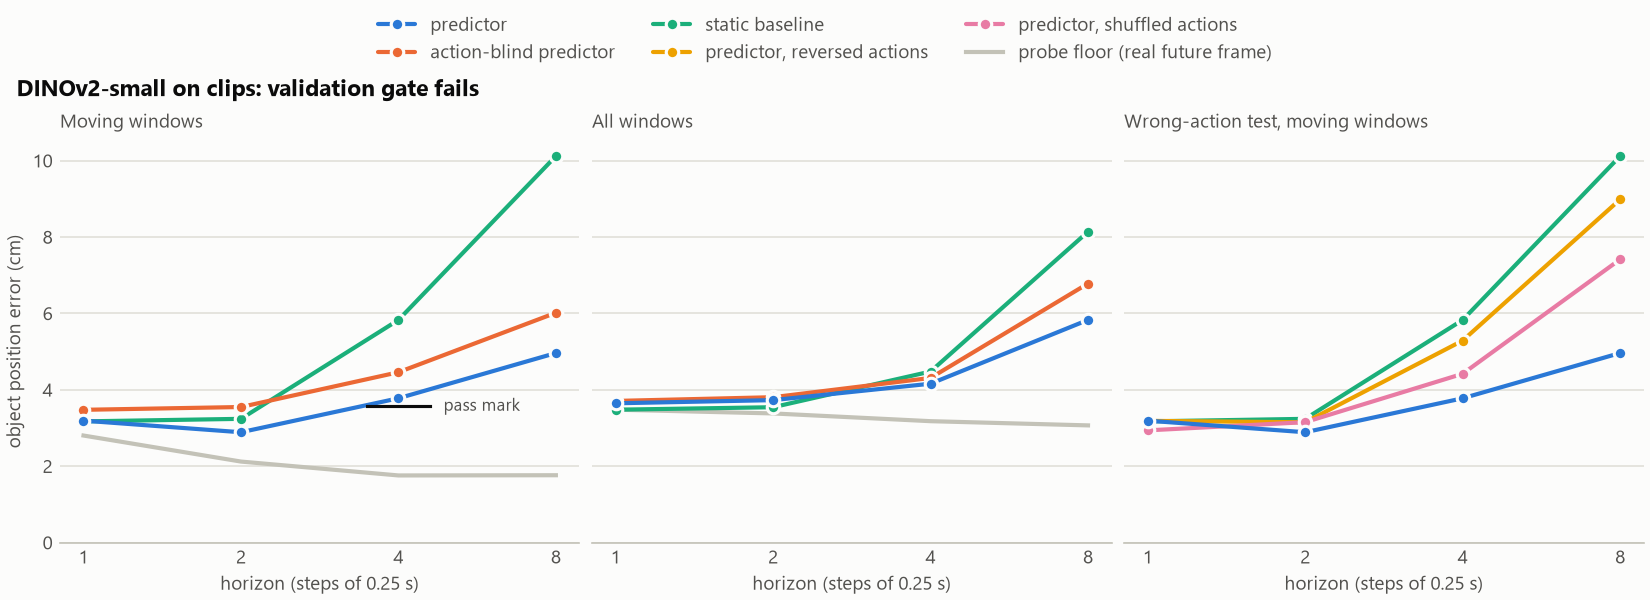
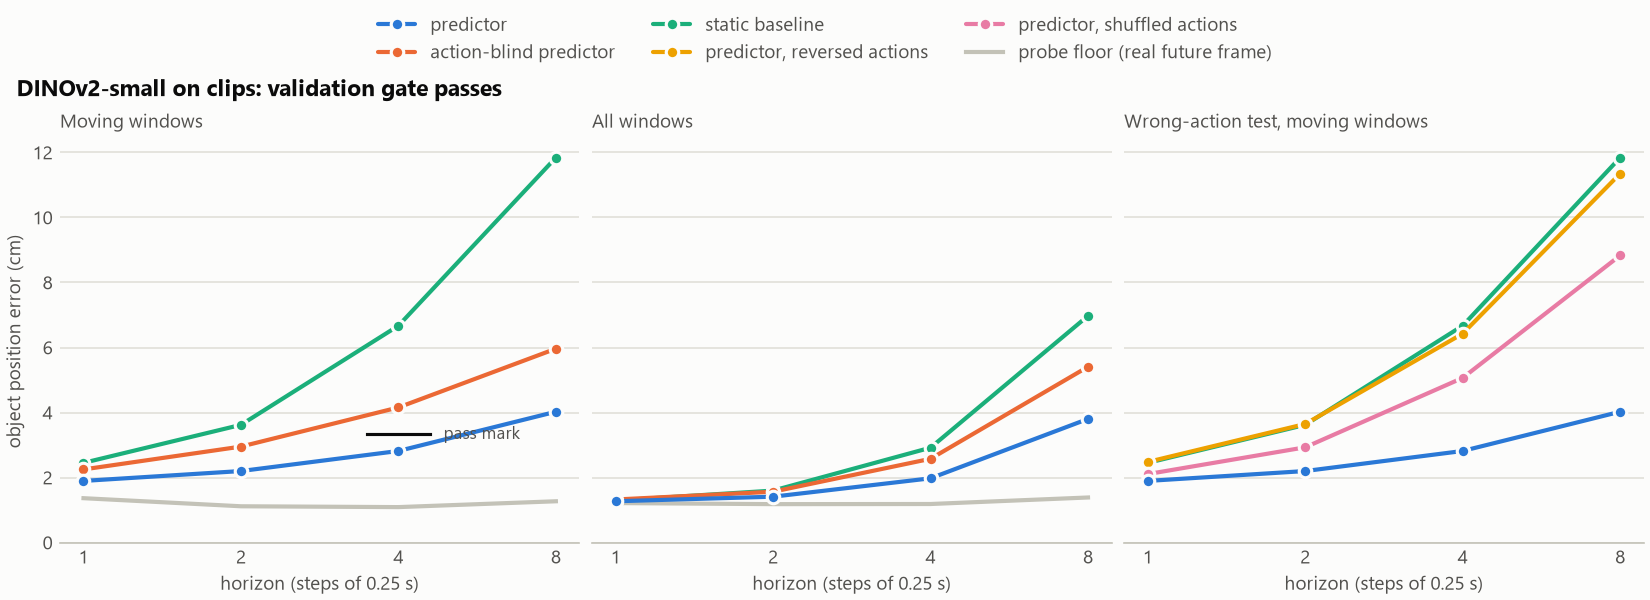
Fill the README with the 115-clip results and refresh its figures

Changed region(s): [[0.0, 0.24, 1.0, 0.87], [0.0309, 0.36, 0.34, 0.87], [0.2473, 0.12, 0.3091, 0.18]]

diff --git a/scripts/readme_assets.py b/scripts/readme_assets.py
@@ -14,15 +14,16 @@ LIMIT = 5e6  # bytes
 
 # README asset -> file in the run folder
 ASSETS = {
-    "gif-strip.gif": "clips/gif-strip/VID_20261016_141304-05.gif",
+    "gif-strip.gif": "clips/gif-strip/VID_20261016_141304-11.gif",
     "pusht-error-vs-horizon.png": "pusht/error-vs-horizon.png",
     "pusht-seeds.png": "pusht/dinov2/error-vs-horizon-seeds.png",
     "ranking.png": "pusht/dinov2/ranking/ranking.png",
     "pusht-panda.gif": "pusht/panda/pusht-002.gif",
     "clips-error-vs-horizon.png": "clips/dinov2/error-vs-horizon.png",
     "near-miss.png": "clips/dinov2/near-miss.png",
-    "panda-push.gif": "clips/panda/VID_20261016_141455-07.gif",
-    "panda-near-miss.gif": "clips/panda/VID_20261016_141631-03.gif",
+    "probe-scaling.png": "clips/dinov2/probe-scaling.png",
+    "panda-push.gif": "clips/panda/VID_20261016_163841-02.gif",
+    "panda-near-miss.gif": "clips/panda/VID_20261016_165020-05.gif",
 }
 
 parser = argparse.ArgumentParser(description=__doc__)

diff --git a/README.md b/README.md
@@ -4,10 +4,9 @@ I trained a small world model that predicts where a pushed object will go, check
 
 [![Open In Colab](https://colab.research.google.com/assets/colab-badge.svg)](https://colab.research.google.com/github/well-iam/humanoid-intern-challenge/blob/main/notebooks/pushing_world_model.ipynb)
 
-<!-- UPDATE: gif-strip.gif is redrawn by scripts/gif_strip.py after the new run. Its default clip is the first held-out push with its own contact shift; the held-out split changes with more takes, so the clip name in this caption may change too. -->
 ![My clip, the model's prediction, the Panda replay](assets/gif-strip.gif)
 
-Left: one of my held-out clips (palm in green). Middle: what the predictor expected 1 s earlier, from the frames it had then and my real palm moves. A prediction is a feature vector, not an image, so I show the training frame whose features are closest to it. Right: the Panda replaying my palm path in MuJoCo.
+Left: one of my held-out clips (palm in green). Middle: what the predictor expected 1 s earlier, from the frames it had then and my real palm moves. A prediction is a feature vector, not an image, so I show the training frame whose features are closest to it. Right: the Panda replaying my palm path in MuJoCo. The clip is not the best one: of the 3 held-out pushes where I know where the palm was at contact, it is the one with the median replay error (4.5 cm; the box also ends 41° off).
 
 ## The idea
 
@@ -65,70 +64,72 @@ Why: the top pick is where the model is most wrong in the hopeful direction. For
 
 ## My data
 
-<!-- UPDATE: every number and figure in this section comes from the first 30 clips (ticket 14 and 15). The new run with about 120 clips replaces them; the 30-clip run stays in pwm-data/clips/dinov2-30clips/. -->
+I recorded 9 takes: my hand pushing a white box (17.8 × 5.8 × 3 cm) on a carpet, filmed from above by a phone 71 cm up. Each clip starts at a clap, so I never touched the phone during a take. The claps cut the takes into 119 clips. I dropped 4 of them, where my hand came back to reset the box. That leaves 115 clips: 80 pushes and 35 near-misses, where my hand passes the box without touching it.
 
-I recorded <!-- UPDATE: clip count, takes -->30 clips in 3 takes<!-- /UPDATE -->: my hand pushing a white box (17.8 × 5.8 × 3 cm) on a carpet, filmed from above by a phone 71 cm up. <!-- UPDATE: push / near-miss / held-out counts -->22 are pushes and 8 are near-misses, where my hand passes the box without touching it. 8 clips (6 pushes, 2 near-misses) are held out.<!-- /UPDATE --> Each clip starts at a clap, so I never touched the phone during a take.
+18 clips are held out: 10 pushes and 8 near-misses. 8 of them are the held-out clips of my first 3 takes, fixed before I trained anything. The other 10 are drawn with a fixed seed from the 6 later takes. The other 97 clips train the models.
 
 From video to data:
 - A printed ArUco marker gives the table plane. Each frame is straightened to a 50 × 50 cm square, at 8 frames per second.
 - MediaPipe finds the hand; the pusher position is the centre of the palm.
-- The box is the bright rectangle of the right size. Its measured top face is within <!-- UPDATE: tracking report -->0.33 cm<!-- /UPDATE --> of the ruler size, so the pixel-to-cm error is a few mm.
+- A clip ends when the hand has been out of view for 0.75 s. Otherwise a clip could include my hand coming back to reset the box.
+- The box is the bright rectangle of the right size.
+- Pixel-to-cm check: the A4 sheet under the marker measures within 0.28 cm of its true size wherever it is seen, and the box's top face within 0.77 cm (5.80 × 17.94 cm on average, ruler 5.8 × 17.8).
 
-Same chain and training recipe as Push-T, with a step of 0.25 s. Nothing was changed after seeing held-out numbers.
+Same chain and training recipe as Push-T, with a step of 0.25 s. Nothing was tuned on held-out numbers.
 
-<!-- UPDATE: assets/clips-error-vs-horizon.png from pwm-data/clips/dinov2/error-vs-horizon.png -->
+**A first run on 30 clips failed both gates. More data fixed that.** I first trained on my first 3 takes only (22 training clips). Then I recorded 6 more takes and reran the same chain. The 8 held-out clips of the first run are still held out, so I can compare on the same clips.
+
 ![Error vs horizon on my clips](assets/clips-error-vs-horizon.png)
 
-Error on held-out moving windows, cm:
+Error at 4 steps (1 s) ahead on held-out moving windows, cm:
 
-<!-- UPDATE: fill the ~120 clips column from pwm-data/clips/dinov2/report.md; the 30 clips column comes from pwm-data/clips/dinov2-30clips/report.md -->
-| | 30 clips, 1 s | 30 clips, 2 s | ~120 clips, 1 s | ~120 clips, 2 s |
-|---|---:|---:|---:|---:|
-| probe on real frames (Gate 1: under 2 cm) | 3.49 | | TBD | |
-| predictor | **3.78** | **4.96** | TBD | TBD |
-| action-blind predictor | 4.46 | 6.02 | TBD | TBD |
-| static baseline | 5.83 | 10.12 | TBD | TBD |
-| reversed pusher moves | 5.29 | 8.98 | TBD | TBD |
-| shuffled pusher moves | 4.42 | 7.41 | TBD | TBD |
-| validation gate (pass mark) | fail (3.57) | | TBD | |
+| | first run: 22 training clips, 8 held-out | 97 training clips, same 8 held-out | 97 training clips, all 18 held-out |
+|---|---:|---:|---:|
+| probe on real frames (Gate 1: under 2 cm) | 3.49 (fail) | 1.72 (pass) | 1.24 (pass) |
+| predictor | **3.78** | **3.15** | **2.82** |
+| action-blind predictor | 4.46 | 4.61 | 4.16 |
+| static baseline | 5.83 | 6.34 | 6.67 |
+| reversed pusher moves | 5.29 | 6.45 | 6.43 |
+| shuffled pusher moves | 4.42 | 5.10 | 5.06 |
+| validation gate (pass mark) | fail (3.57) | pass (3.69) | pass (3.33) |
 
-<!-- UPDATE: all numbers in the next three bullets -->
-- The predictor halves the static baseline's error at 2 s (4.96 vs 10.12 cm), and beats it at 1 s in all 6 held-out push clips. Wrong pusher moves make it worse.
-- It is only 15% below the action-blind predictor, and the gate asks for 20%. Resampling the 6 held-out push clips puts the ratio at 0.85 (95% interval 0.78 to 0.92).
-- **Gate 1 fails:** the probe is off by 3.49 cm on real frames. This error sits under every number above.
+- **Both gates now pass.** On all 18 held-out clips the predictor is 32% below the action-blind predictor (20% needed) and 58% below the static baseline. It beats the action-blind predictor in all 10 held-out push clips. Resampling those 10 clips puts the ratio at 0.68 (95% interval 0.62 to 0.74).
+- On the first run it was only 15% below the action-blind predictor (ratio 0.85, 95% interval 0.78 to 0.92, over 6 clips).
+- Wrong pusher moves hurt more than before. Reversed moves now put the error at the static baseline's level (6.43 vs 6.67 cm). So the predictor leans on the actions more.
+- At 8 steps (2 s) ahead, on all 18: predictor 4.02 cm, action-blind 5.96, static 11.84.
+- The static baseline got worse with more data on the same 8 clips (5.83 to 6.34 cm). The static baseline is the probe on the current frame. My guess: the first run's weaker probe pulled every position toward the middle, which hid part of the motion.
 
-The probe got better with every clip I added. Cross-validated on the training clips: 6.27 cm with 6 clips, 4.86 with 9, 3.71 with 12, 3.38 with 15, 3.17 with 17. Feeding DINOv2 448 px frames instead of 224 px did not help (3.15 vs 3.04 cm). So I recorded more clips.
+**Why more clips helped: the probe.** With 22 training clips, the probe read the box's position 3.49 cm off on real frames, and this error sat under every number. Feeding DINOv2 448 px frames instead of 224 px did not help (3.15 vs 3.04 cm). More clips did:
 
-<!-- UPDATE: add assets/probe-vs-clips.png (probe error vs number of training clips, 30-clip and ~120-clip runs) once the new run draws it, and add it to ASSETS in scripts/readme_assets.py, then uncomment the line below (left commented so GitHub shows no broken image)
-![Probe error vs number of training clips](assets/probe-vs-clips.png)
--->
+![Probe error vs number of training clips](assets/probe-scaling.png)
 
+This is 5-fold cross-validation over the 97 training clips (held-out clips never used). The probe crosses the 2 cm mark between 24 and 48 clips. One caveat: the folds mix clips of the same take, so the curve may flatter a bit. The held-out numbers (1.72 and 1.24 cm) agree with it.
 
 **Near-miss test.** When my hand passes the box without touching it, the box should not move.
 
-<!-- UPDATE: assets/near-miss.png and the numbers below -->
 ![Near-miss test](assets/near-miss.png)
 
-At 1 s, the predictor moves the box 2.37 cm on near-miss windows. The probe's own jitter on the real frames is 1.60 cm, and the action-blind predictor moves it 1.87 cm. So the model learned "the box moves when the hand moves", not "the box moves when the hand touches it". This rests on 2 held-out near-miss clips.
+At 1 s, on the 8 held-out near-miss clips, the predictor moves the box 1.44 cm. The probe's own jitter on the real frames is 0.67 cm. That is still a fail. But it is better than the first run, where it moved the box 2.37 cm on 2 near-miss clips. And it now moves the box less than the action-blind predictor (1.44 vs 2.17 cm at 1 s, 2.86 vs 4.48 at 2 s), which the first run never did. So the actions now tell it something about "the hand passed by". On the first run's 2 near-miss clips alone, it improved at 1 s (2.37 to 1.61 cm) but not at 2 s (4.17 to 4.23 cm).
 
 ### My palm paths drive the Panda
 
 The palm centre is about 12 cm behind the part of the hand that touches the box. So for each push I measure, at the moment of contact, the vector from the palm to the nearest edge of the box, and move the whole path by it. The Panda's closed gripper follows the moved path 1.5 cm above the table, with mink inverse kinematics in MuJoCo. The simulated box starts where the real one started.
 
-<!-- UPDATE: panda-push.gif is clip VID_20261016_141455-07 (the own-shift push with the median error); pick again from the new replay.json -->
 ![Panda replaying one of my pushes](assets/panda-push.gif)
 
-Final box position, simulation vs my clip:
+This held-out push is one where MediaPipe found my hand late, so the path is moved by the median shift. It is the one with the median replay error of the 7 such held-out pushes: 5.3 cm.
 
-<!-- UPDATE: all rows from pwm-data/clips/panda/replay.json -->
+Final box position, simulation vs my clip, all 115 clips:
+
 | clips | how the path is moved | error, median (worst) | real box moved, median |
 |---|---|---:|---:|
-| 12 pushes | its own contact shift | 3.6 cm (5.9) | 14.8 cm |
-| 10 pushes where the hand was found late | the median shift, turned to the hand's direction | 5.5 cm (22.7) | 15.7 cm |
-| 8 near-misses | the median shift | box moved 0.0 cm in all 8 | 0.0 cm |
+| 48 pushes | its own contact shift | 3.8 cm (11.1) | 14.4 cm |
+| 32 pushes where the hand was found late | the median shift, turned to the hand's direction | 4.7 cm (19.1) | 16.4 cm |
+| 35 near-misses | the median shift | 0.0 cm (0.5); the simulated box never moved | 0.0 cm |
 
-<!-- UPDATE: panda-near-miss.gif is clip VID_20261016_141631-03 (first held-out near-miss) -->
-The near-misses stay near-misses on the robot: [assets/panda-near-miss.gif](assets/panda-near-miss.gif). The same replay code runs on Push-T paths: [assets/pusht-panda.gif](assets/pusht-panda.gif).
+The replay needs no training, so I show all clips. On the first run's 30 clips, the 12 own-shift pushes give the same 3.6 cm as before. Their 10 late pushes improved from 5.5 to 3.0 cm (worst 22.7 to 18.6), because the median shift now comes from 48 pushes instead of 12.
+
+The near-misses stay near-misses on the robot: in [assets/panda-near-miss.gif](assets/panda-near-miss.gif), the first held-out clip of my take of close passes, the gripper goes by the box without moving it. The same replay code runs on Push-T paths: [assets/pusht-panda.gif](assets/pusht-panda.gif).
 
 ## Design choices
 
@@ -155,10 +156,11 @@ Dropped, and why:
 - **The Push-T gate on more seeds:** passed on 1 of 3. Seed 1 missed by 0.90 units because its action-blind predictor was stronger. Seed 2 got stuck in training (both models close to the static baseline). I did not investigate seed 2 further.
 - **V-JEPA 2:** failed the gate (16.8% below its action-blind predictor, 20% needed). Its probe error is twice DINOv2's (8.27 vs 3.96), so part of its error is in the read-out, not the prediction.
 - **The ranking test's top pick:** worse than random (79.8 vs 73.8 units from the goal on average).
-- <!-- UPDATE: own-data numbers --> **Gate 1 on my clips:** 3.49 cm vs 2 cm. Per the plan, a Gate 1 fail means "fix the input first". I trained anyway, for lack of time, and I report every number with this in mind.
-- <!-- UPDATE --> **Contact on my clips:** the near-miss test failed (2.37 cm of predicted motion where the box stayed still).
-- <!-- UPDATE --> **Late hands:** in 10 of 22 pushes MediaPipe found my hand less than 0.25 s before the box moved. Without the palm at contact, the replay has to guess the contact shift (median 5.5 cm error, worst 22.7).
-- <!-- UPDATE --> **The box's angle in replay:** median error 25°. The Panda pushes with two closed fingers, 3.8 × 2 cm. My hand pushes with a wide edge, so the real box turns differently.
+- **My first 30 clips were not enough** (fixed by more data). Gate 1 failed (probe 3.49 cm vs 2 cm) and so did the validation gate (15% below the action-blind predictor, 20% needed). Per the plan, a Gate 1 fail means "fix the input first". Recording 6 more takes did that: 1.24 cm and 32% (see [My data](#my-data)).
+- **Contact on my clips:** the near-miss test still fails. The predictor moves the box 1.44 cm at 1 s where it stayed still, twice the probe's jitter (0.67 cm). Better than the first run (2.37 cm), not solved.
+- **Late hands:** in 32 of 80 pushes MediaPipe found my hand less than 0.25 s before the box moved. Without the palm at contact, the replay has to guess the contact shift (median 4.7 cm error, worst 19.1). All 4 new held-out pushes are in this group, so only 3 held-out pushes have their own shift.
+- **The box's angle in replay:** median error 25° on the own-shift pushes. The Panda pushes with two closed fingers, 3.8 × 2 cm. My hand pushes with a wide edge, so the real box turns differently.
+- **Box size on the new takes:** the worst top-face error grew from 0.33 cm on the first 3 takes to 0.77 cm on all 9. I did not look into why.
 - **Open-loop Push-T replay on the Panda:** median 20 units (about 2 cm at the Panda's scale), worst 281 units. Push-T's 2D physics has no floor friction; MuJoCo does. Once the T drifts, the human's later corrections push it the wrong way.
 
 ## How to run
@@ -167,7 +169,7 @@ Dropped, and why:
 
 [![Open In Colab](https://colab.research.google.com/assets/colab-badge.svg)](https://colab.research.google.com/github/well-iam/humanoid-intern-challenge/blob/main/notebooks/pushing_world_model.ipynb)
 
-Runtime > Run all. By default the notebook downloads the cached features, trained predictors and tracks from the Hugging Face dataset [`<HF_REPO_ID>`](https://huggingface.co/datasets/<HF_REPO_ID>), and rebuilds every figure and GIF on the CPU. It took 11 min on my machine with the GPU hidden. Set `RETRAIN = "clips"` to retrain the predictors on my clips (about 40 min on a T4, estimated) or `"all"` to also redo Push-T with DINOv2 (about 1.5 h, estimated). Push-T is downloaded from its original URL, never re-hosted.
+Runtime > Run all. By default the notebook downloads the cached features, trained predictors and tracks from the Hugging Face dataset [`well-iam/humanoid-intern-challenge`](https://huggingface.co/datasets/well-iam/humanoid-intern-challenge), and rebuilds every figure and GIF on the CPU. It took 11 min on my machine with the GPU hidden. Set `RETRAIN = "clips"` to retrain the predictors on my clips (about 40 min on a T4, estimated) or `"all"` to also redo Push-T with DINOv2 (about 1.5 h, estimated). Push-T is downloaded from its original URL, never re-hosted.
 
 <!-- TODO: after the public upload, run the notebook once on a fresh Colab runtime and write the time here. -->
 Tested Colab runtime: Python 3.13.15, PyTorch 2.11.0+cu130, Tesla T4.
@@ -186,14 +188,18 @@ Push-T, end to end (each model trains in about 15 min):
 
 ```bash
 uv run python scripts/data.py --dataset pusht
-uv run python scripts/embed.py --dataset pusht --encoder dinov2
-uv run python scripts/train.py --dataset pusht --encoder dinov2 --precision fp16 --batch-size 16 --steps 2500 --lr 1e-3
-uv run python scripts/train.py --dataset pusht --encoder dinov2 --precision fp16 --batch-size 16 --steps 2500 --lr 1e-3 --blind
-uv run python scripts/evaluate.py --dataset pusht --encoder dinov2
-uv run python scripts/compare.py --dataset pusht
+for enc in dinov2 vjepa2; do
+  uv run python scripts/embed.py --dataset pusht --encoder $enc
+  uv run python scripts/train.py --dataset pusht --encoder $enc --precision fp16 --batch-size 16 --steps 2500 --lr 1e-3
+  uv run python scripts/train.py --dataset pusht --encoder $enc --precision fp16 --batch-size 16 --steps 2500 --lr 1e-3 --blind
+  uv run python scripts/evaluate.py --dataset pusht --encoder $enc
+done
+uv run python scripts/compare.py --dataset pusht              # error-vs-horizon.png, winner.json
 uv run python scripts/rank.py --dataset pusht --encoder dinov2
 uv run python scripts/panda_replay.py --dataset pusht
 ```
+
+The extra seeds: the two `train.py` lines and `evaluate.py` with `--encoder dinov2 --seed 1` (and 2), then `uv run python scripts/seeds.py --dataset pusht --encoder dinov2 --seeds 0 1 2`.
 
 My clips: put the takes in `$PWM_DATA/clips/raw/`, then
 
@@ -204,12 +210,20 @@ uv run python scripts/train.py --dataset clips --encoder dinov2 --precision fp16
 uv run python scripts/train.py --dataset clips --encoder dinov2 --precision fp16 --batch-size 16 --steps 2500 --lr 1e-3 --blind
 uv run python scripts/evaluate.py --dataset clips --encoder dinov2
 uv run python scripts/near_miss.py --dataset clips --encoder dinov2
-uv run python scripts/panda_replay.py --dataset clips
-uv run python scripts/gif_strip.py
+uv run python scripts/probe_scaling.py --dataset clips --encoder dinov2
+# the same model scored on the first 3 takes' 8 held-out clips only (the before/after table)
+uv run python scripts/evaluate.py --dataset clips --encoder dinov2 --only-takes VID_20261016_141304 VID_20261016_141455 VID_20261016_141631
+uv run python scripts/near_miss.py --dataset clips --encoder dinov2 --only-takes VID_20261016_141304 VID_20261016_141455 VID_20261016_141631
+uv run python scripts/panda_replay.py --dataset clips --episode VID_20261016_163841-02 VID_20261016_165020-05
+uv run python scripts/gif_strip.py --episode VID_20261016_141304-11
 uv run python scripts/readme_assets.py   # copies the README's figures into assets/
 ```
 
-The 1080p takes are not public. To run the clip chain, download the Hugging Face dataset above into `$PWM_DATA`: it holds the tracked episodes, so you can skip `track.py` and start from `embed.py`.
+The 1080p takes are not public. To run the clip chain without them, download the Hugging Face dataset into `$PWM_DATA` (9.6 GB; add `--exclude "clips/videos/*"` to skip the 0.6 GB of 720p takes): it holds the tracked episodes, so you can skip `track.py` and start from `embed.py`.
+
+```bash
+uv run hf download well-iam/humanoid-intern-challenge --repo-type dataset --local-dir $PWM_DATA
+```
 
 ## License
 
